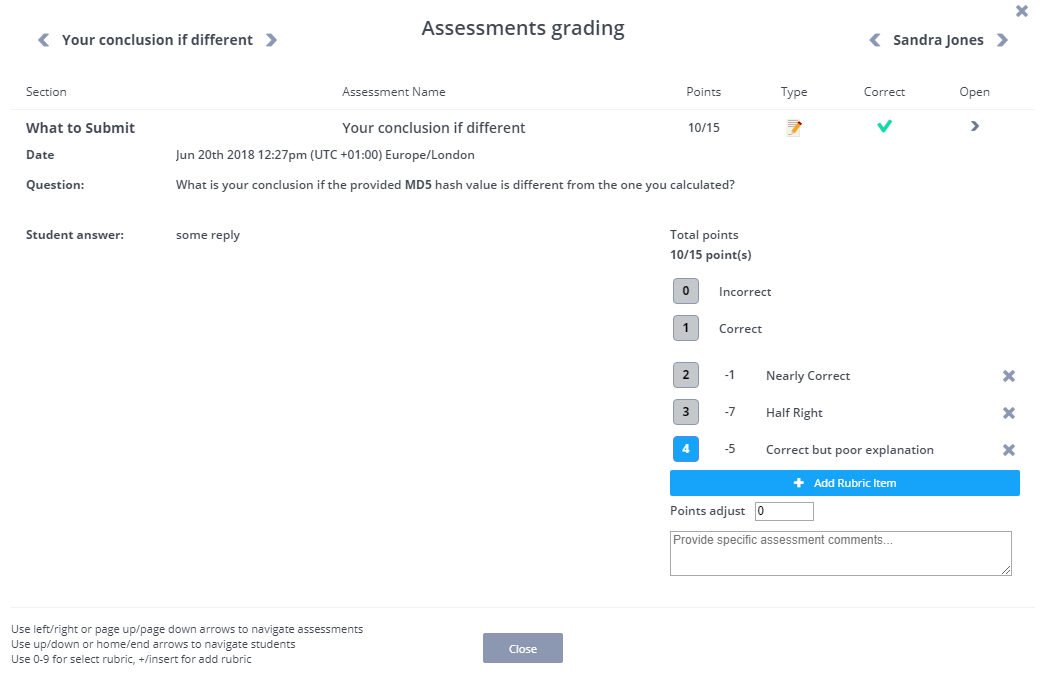
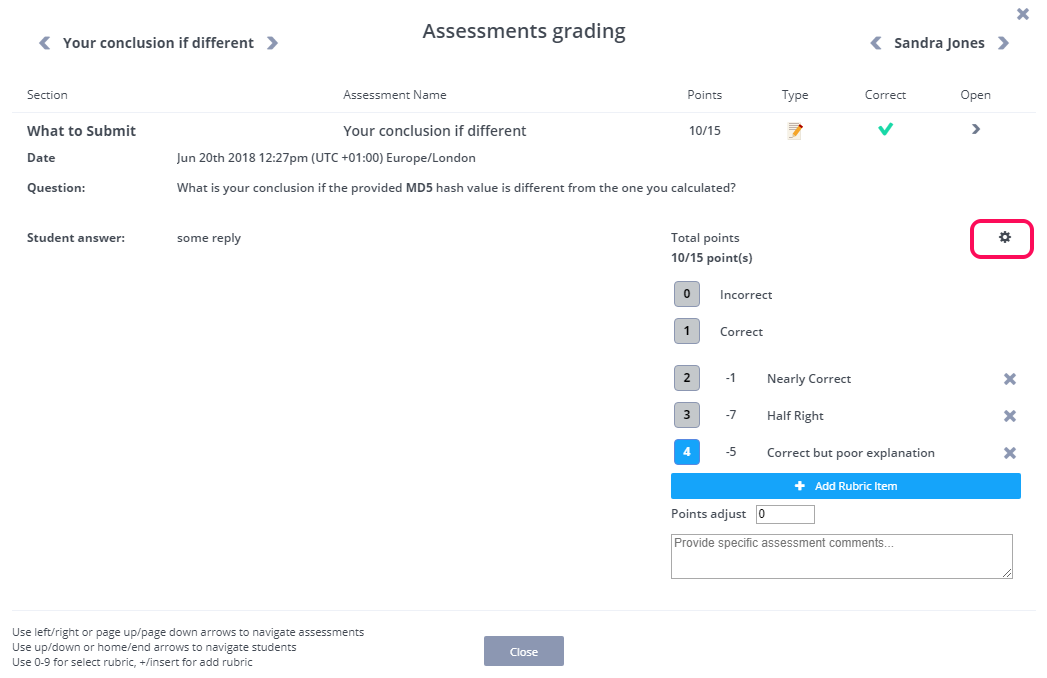
changelog #9372 #9649 #9594 #9689 #9678

diff --git a/source/docs/misc/changelog.html.md b/source/docs/misc/changelog.html.md
@@ -13,6 +13,11 @@ We do not report small bug fixes or issues that affect individual users, who we 
 
 **July 2018**
 
+- `[I] [12th]`: Improve handing of copy file actions
+- `[I] [11th]`: Improve handling of cookie consent
+- `[I] [11th]`: Fix issue in counter for grading of book based units
+- `[F] [10th]`: Allow [Partial Point Rubric](/docs/classes/monitor/grading-freetext#partialpointrubric) to be cloned from other units
+- `[I] [ 3rd]`: Update handling of Edge browser integration with LMS systems
 - `[I] [ 3rd]`: Improve [plagiarism checker](/docs/classes/plag/plag-start/) adding new filters that can be set
 - `[I] [ 2nd]`: Fix problem with tab focus being lost in guides
 - `[I] [ 2nd]`: Fix problem when removing units from module/course in a class

diff --git a/source/docs/classes/monitor/grading-freetext.html.md b/source/docs/classes/monitor/grading-freetext.html.md
@@ -36,6 +36,9 @@ Editing is allowed while grading so the teacher can:
 - remove an item. As this action will effect all students already graded and their total score updated, a warning is shown for confirmation
 - edit the weight or name.  If weight is changed a warning will be shown for confirmation
 
+#### Cloning
+A rubric can be cloned from another unit if required in preference to creating manually. Select the gear icon (circled in image above) to select the unit. 
+
 #### Points adjust
 The points adjust field allows the teacher/instructor to manually adjust (ie reduce) the students total score if required without having to edit/change the rubric
 
